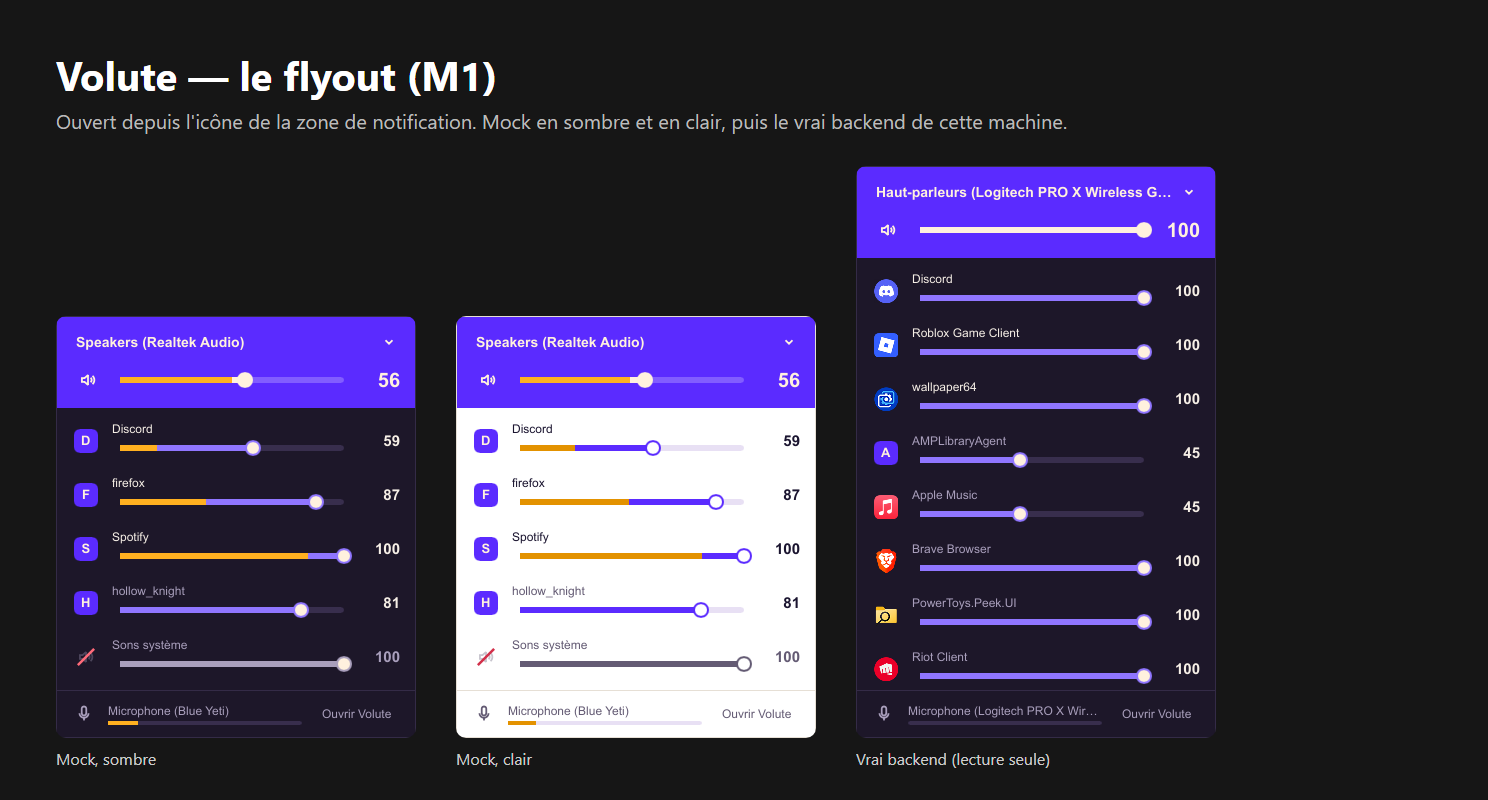
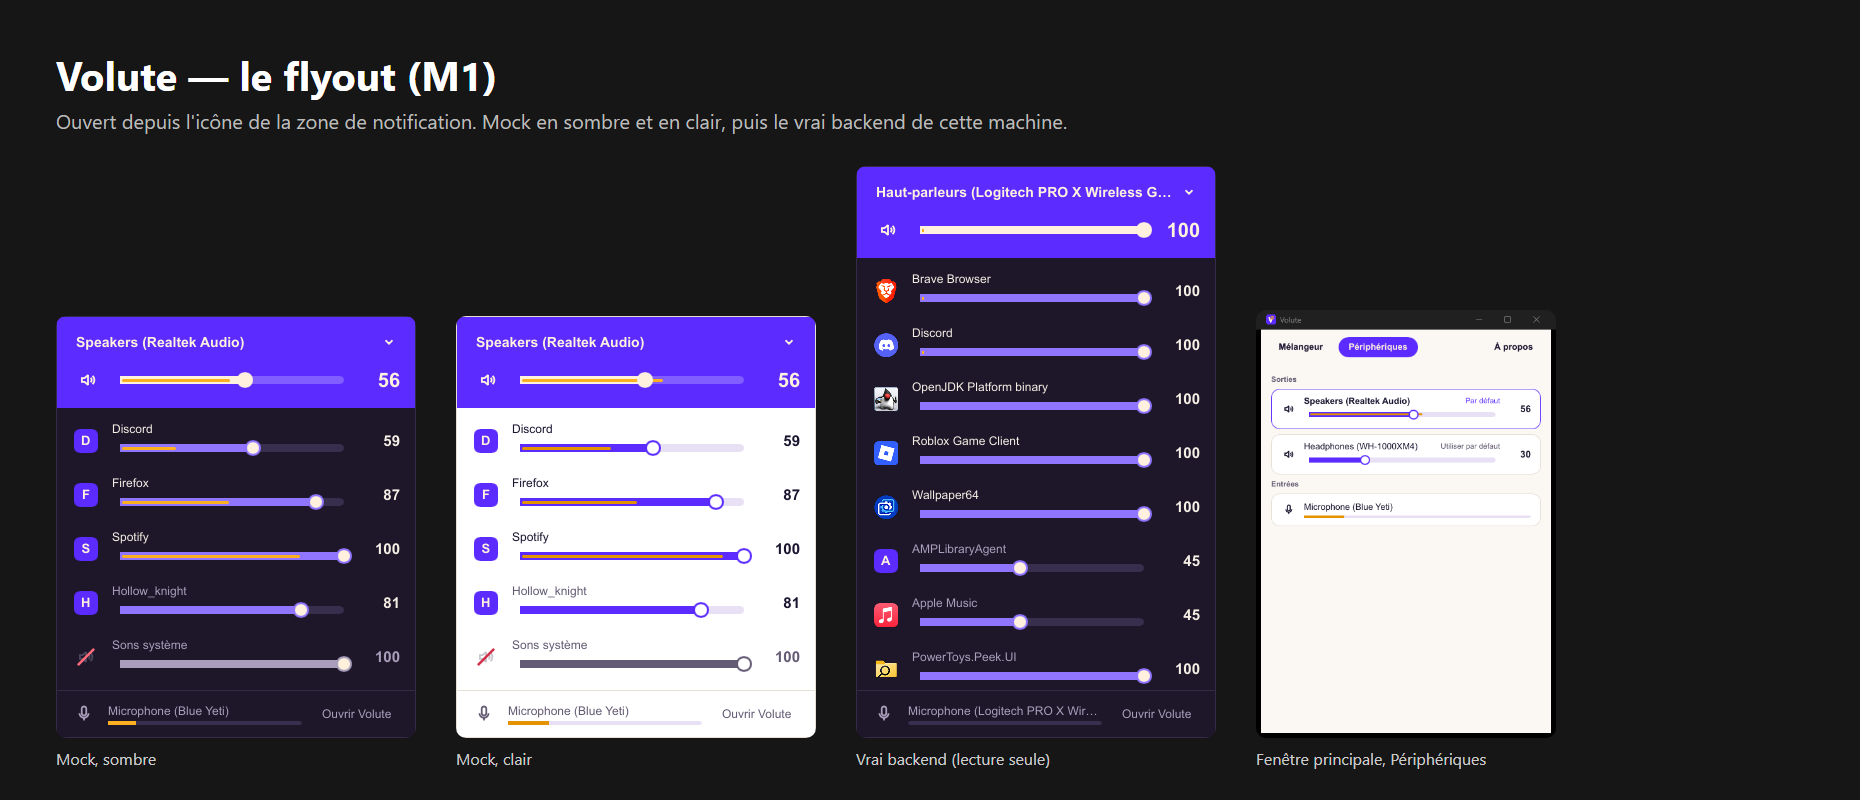
feat(app): the level runs as a thin line through the fader, the main window opens at its size, file names start with a capital, --tab=devices; xtask bench-overhead --real; M1 UX audit and budget

Changed region(s): [[0.0309, 0.0625, 0.8347, 0.9688], [0.0309, 0.9375, 0.0927, 0.9688]]

diff --git a/docs/ux/m1/board.html b/docs/ux/m1/board.html
@@ -1,5 +1,5 @@
 <!doctype html><html><head><meta charset="utf-8"><style>
-body{margin:0;background:#161616;color:#fff;font-family:"Segoe UI",Arial,sans-serif;padding:48px 56px;width:1488px;box-sizing:border-box}
+body{margin:0;background:#161616;color:#fff;font-family:"Segoe UI",Arial,sans-serif;padding:48px 56px;width:1860px;box-sizing:border-box}
 h1{font-size:40px;margin:0 0 6px}p{color:#bbb;font-size:20px;margin:0 0 32px}
 .row{display:flex;gap:40px;align-items:flex-end}.c{display:flex;flex-direction:column;gap:10px;font-size:16px;color:#ccc}
 img{border-radius:10px;display:block}
@@ -10,4 +10,5 @@ img{border-radius:10px;display:block}
 <div class="c"><img src="flyout-mock-dark.png">Mock, sombre</div>
 <div class="c"><img src="flyout-mock-light.png">Mock, clair</div>
 <div class="c"><img src="flyout-real-dark.png">Vrai backend (lecture seule)</div>
+<div class="c"><img src="devices-mock-light.png" width="300">Fenêtre principale, Périphériques</div>
 </div></body></html>

diff --git a/xtask/src/main.rs b/xtask/src/main.rs
@@ -8,7 +8,7 @@ use std::time::{Duration, Instant};
 use anyhow::{Context, Result, bail};
 
 const USAGE: &str = "usage: cargo xtask check
-       cargo xtask bench-overhead [--seconds=N] [--check]";
+       cargo xtask bench-overhead [--seconds=N] [--check] [--real]";
 const WARM_UP: Duration = Duration::from_secs(5);
 
 /// The performance budget from docs/ARCHITECTURE.md, per state: CPU of one core, private MB.
@@ -24,9 +24,14 @@ fn main() -> Result<()> {
         Some("bench-overhead") => {
             let mut seconds = 60;
             let mut check = false;
+            let mut real = false;
             for arg in args {
                 if arg == "--check" {
                     check = true;
+                    continue;
+                }
+                if arg == "--real" {
+                    real = true;
                     continue;
                 }
                 match arg.strip_prefix("--seconds=").map(str::parse) {
@@ -34,7 +39,7 @@ fn main() -> Result<()> {
                     _ => bail!("invalid argument `{arg}`\n{USAGE}"),
                 }
             }
-            bench_overhead(Duration::from_secs(seconds), check)
+            bench_overhead(Duration::from_secs(seconds), check, real)
         }
         _ => bail!("{USAGE}"),
     }
@@ -72,10 +77,11 @@ fn check() -> Result<()> {
     Ok(())
 }
 
-/// Builds Volute in release, then runs it on the mock twice: window open with meters running,
-/// then idle in the tray with nothing shown. Prints CPU of one core and peak private memory.
-/// With `check`, fails when a state is over budget.
-fn bench_overhead(duration: Duration, check: bool) -> Result<()> {
+/// Builds Volute in release, then runs it twice: window open with meters running, then idle in
+/// the tray with nothing shown. Prints CPU of one core and peak private memory. With `check`,
+/// fails when a state is over budget. On the mock, unless `real`: then on this machine's Core
+/// Audio, read only (no settings file, so no remembered volume is ever applied).
+fn bench_overhead(duration: Duration, check: bool, real: bool) -> Result<()> {
     let root = workspace_root();
     let cargo = std::env::var("CARGO").unwrap_or_else(|_| "cargo".into());
     let status = Command::new(cargo)
@@ -90,12 +96,13 @@ fn bench_overhead(duration: Duration, check: bool) -> Result<()> {
         .join("target/release/volute")
         .with_extension(std::env::consts::EXE_EXTENSION);
 
-    // The mock and no settings file: a benchmark touches no real audio and neither reads nor
-    // changes the user's setup, and runs next to the user's own Volute.
+    // No settings file: a benchmark neither reads nor changes the user's setup, applies no
+    // remembered volume, and runs next to the user's own Volute. The mock by default.
+    let source: &[&str] = if real { &[] } else { &["--mock"] };
     let states = [
         (
             "open",
-            &["--mock", "--no-settings", "--open", "--no-tray"][..],
+            &["--no-settings", "--open", "--no-tray"][..],
             Budget {
                 cpu_percent: 4.0,
                 private_mb: 40.0,
@@ -103,7 +110,7 @@ fn bench_overhead(duration: Duration, check: bool) -> Result<()> {
         ),
         (
             "idle",
-            &["--mock", "--no-settings"][..],
+            &["--no-settings"][..],
             Budget {
                 cpu_percent: 0.1,
                 private_mb: 25.0,
@@ -112,9 +119,11 @@ fn bench_overhead(duration: Duration, check: bool) -> Result<()> {
     ];
     let mut over = Vec::new();
     println!();
-    println!("volute overhead on the mock, {} s per state", duration.as_secs());
+    let on = if real { "this machine's Core Audio, read only" } else { "the mock" };
+    println!("volute overhead on {on}, {} s per state", duration.as_secs());
     for (name, args, budget) in states {
         let mut child = Command::new(&exe)
+            .args(source)
             .args(args)
             .spawn()
             .with_context(|| format!("starting {}", exe.display()))?;

diff --git a/crates/volute-app/src/mixer.rs b/crates/volute-app/src/mixer.rs
@@ -791,7 +791,7 @@ mod tests {
         let shown = &frames[1..];
         let rows = shown[0].rows.as_ref().expect("the first shown frame has the rows");
         let names: Vec<&str> = rows.iter().map(|r| r.name.as_str()).collect();
-        assert_eq!(names, ["Discord", "firefox", "Spotify", "hollow_knight", ""]);
+        assert_eq!(names, ["Discord", "Firefox", "Spotify", "Hollow_knight", ""]);
         assert!(rows[4].system);
         assert!(shown[0].devices.as_ref().is_some_and(|d| d.len() == 3));
         assert!(shown[1..].iter().all(|f| f.rows.is_none() && f.devices.is_none()), "only changes");
@@ -813,12 +813,12 @@ mod tests {
         wait();
         assert_eq!(control.calls().sessions, 2, "one read for the new session");
         let rows = run.last_rows().unwrap();
-        assert!(rows.iter().any(|r| r.name == "vlc"), "the new app is listed");
+        assert!(rows.iter().any(|r| r.name == "Vlc"), "the new app is listed");
         let spotify = rows.iter().find(|r| r.name == "Spotify").unwrap();
         assert!(spotify.muted && (spotify.volume - curve::position_from_scalar(0.25)).abs() < 1e-4);
         control.set_session_state("vlc", SessionState::Expired);
         wait();
-        assert!(run.last_rows().unwrap().iter().all(|r| r.name != "vlc"), "ended: gone");
+        assert!(run.last_rows().unwrap().iter().all(|r| r.name != "Vlc"), "ended: gone");
         run.stop();
     }
 
@@ -873,12 +873,12 @@ mod tests {
         run.send(Command::Visible(true));
         wait();
         let rows = run.last_rows().unwrap();
-        let vlc = rows.iter().find(|r| r.name == "vlc").unwrap();
+        let vlc = rows.iter().find(|r| r.name == "Vlc").unwrap();
         assert!((vlc.volume - 0.4).abs() < 1e-3, "remembered 40 %, got {}", vlc.volume);
         // Changed in Windows' mixer while it plays: Volute does not fight it.
         control.change_session("vlc", 0.9, false);
         wait();
-        let vlc = run.last_rows().unwrap().into_iter().find(|r| r.name == "vlc").unwrap();
+        let vlc = run.last_rows().unwrap().into_iter().find(|r| r.name == "Vlc").unwrap();
         assert!((vlc.volume - curve::position_from_scalar(0.9)).abs() < 1e-3);
         run.stop();
     }

diff --git a/crates/volute-app/src/cli.rs b/crates/volute-app/src/cli.rs
@@ -1,7 +1,7 @@
 //! Command-line flags. Test flags reach a state directly, for screenshots, benchmarks and tests.
 
 pub const USAGE: &str =
-    "usage: volute [--open] [--no-settings] [--no-tray] [--dark|--light] [--mock] [--flyout] [--about]";
+    "usage: volute [--open] [--no-settings] [--no-tray] [--dark|--light] [--mock] [--flyout] [--tab=mixer|devices] [--about]";
 
 #[derive(Clone, Debug, Default, PartialEq, Eq)]
 pub struct Options {
@@ -18,6 +18,8 @@ pub struct Options {
     pub mock: bool,
     /// Opens the flyout at start, at the bottom right (screenshots).
     pub flyout: bool,
+    /// The main window's view at start: 0 the mixer, 1 the devices.
+    pub tab: i32,
     /// Opens the About window at start (screenshots).
     pub about: bool,
 }
@@ -34,6 +36,8 @@ pub fn parse(args: impl Iterator<Item = String>) -> Result<Options, String> {
             "--mock" => options.mock = true,
             "--flyout" => options.flyout = true,
             "--about" => options.about = true,
+            "--tab=mixer" => options.tab = 0,
+            "--tab=devices" => options.tab = 1,
             _ => return Err(format!("unknown argument `{arg}`")),
         }
     }
@@ -60,11 +64,13 @@ mod tests {
                 dark: Some(false),
                 mock: true,
                 flyout: false,
+                tab: 0,
                 about: false,
             }
         );
         assert_eq!(parse_all(&[]).unwrap(), Options::default());
         assert_eq!(parse_all(&["--dark"]).unwrap().dark, Some(true));
+        assert_eq!(parse_all(&["--tab=devices"]).unwrap().tab, 1);
     }
 
     #[test]

diff --git a/crates/volute-core/src/apps.rs b/crates/volute-core/src/apps.rs
@@ -74,8 +74,17 @@ fn name_of(session: &Session) -> String {
         .exe
         .as_deref()
         .and_then(Path::file_stem)
-        .map(|s| s.to_string_lossy().into_owned())
+        .map(|s| capitalise(&s.to_string_lossy()))
         .unwrap_or_else(|| format!("PID {}", session.pid))
+}
+
+/// A file name shown as a name: its first letter in capitals ("firefox" → "Firefox").
+fn capitalise(name: &str) -> String {
+    let mut chars = name.chars();
+    match chars.next() {
+        Some(first) => first.to_uppercase().chain(chars).collect(),
+        None => String::new(),
+    }
 }
 
 /// Groups `sessions` into apps into `out`: expired sessions left out, playing apps first, then
@@ -151,7 +160,7 @@ mod tests {
         let c = session("3", 12, Some(r"C:\Spotify\Spotify.exe"), SessionState::Active);
         let mut apps = Vec::new();
         group(&[a, b, c], &mut apps);
-        assert_eq!(names(&apps), ["firefox", "Spotify"]);
+        assert_eq!(names(&apps), ["Firefox", "Spotify"]);
         let firefox = &apps[0];
         assert_eq!(firefox.sessions.len(), 2, "both processes in one row, whatever the case");
         assert_eq!(firefox.volume, 0.6, "the loudest session");
@@ -173,7 +182,7 @@ mod tests {
         ];
         let mut apps = Vec::new();
         group(&sessions, &mut apps);
-        assert_eq!(names(&apps), ["b", "Apple", "zoom", ""]);
+        assert_eq!(names(&apps), ["B", "Apple", "Zoom", ""]);
         assert!(apps[3].system_sounds(), "system sounds keep their own row, last");
     }
 

diff --git a/crates/volute-app/src/ui.rs b/crates/volute-app/src/ui.rs
@@ -53,6 +53,7 @@ struct Ui {
     /// 0 follows the system, 1 dark, 2 light.
     scheme: i32,
     main_visible: bool,
+    main_shown_once: bool,
     main_occluded: bool,
     /// Wheel delta over the tray icon not yet worth a notch (precision touchpads).
     wheel: i32,
@@ -128,6 +129,7 @@ pub fn install(app: &AppWindow, commands: flume::Sender<Input>, scheme: i32, wit
             shown: Shown::default(),
             scheme,
             main_visible: false,
+            main_shown_once: false,
             main_occluded: false,
             wheel: 0,
             audio_visible: false,
@@ -288,15 +290,24 @@ fn update_visibility() {
     });
 }
 
+/// The main window's size the first time it opens, in logical pixels: Slint would otherwise
+/// open it at its minimum.
+const MAIN_SIZE: (f32, f32) = (460.0, 640.0);
+
 /// Shows the main window and brings it forward.
 pub fn show_main() {
     let app = with_ui(|ui| {
+        let first = !ui.main_shown_once;
+        ui.main_shown_once = true;
         ui.main_visible = true;
         ui.main_occluded = false;
-        ui.app.clone_strong()
+        (ui.app.clone_strong(), first)
     });
-    let Some(app) = app else { return };
+    let Some((app, first)) = app else { return };
     let _ = app.show();
+    if first {
+        app.window().set_size(slint::LogicalSize::new(MAIN_SIZE.0, MAIN_SIZE.1));
+    }
     app.window().with_winit_window(|w| {
         w.set_minimized(false);
         w.focus_window();

diff --git a/crates/volute-app/src/main.rs b/crates/volute-app/src/main.rs
@@ -84,6 +84,7 @@ fn main() -> anyhow::Result<()> {
     // The audio thread stops on Command::Quit; Core Audio's callbacks share its channel.
     let (inputs, receiver) = flume::unbounded::<Input>();
     ui::install(&app, inputs.clone(), scheme, !options.no_tray);
+    app.set_tab(options.tab);
 
     let make: MakeBackend = if options.mock {
         Box::new(|| Ok(Box::new(MockAudio::demo()) as Backend))

diff --git a/docs/ux/m1.md b/docs/ux/m1.md
@@ -1,0 +1,41 @@
+# UX audit — M1, the mixer
+
+Screens: [board.png](m1/board.png) (the flyout on the mock, dark and light, on this machine's real backend, read only, and the Devices view), [main-mock-dark.png](m1/main-mock-dark.png), [devices-mock-light.png](m1/devices-mock-light.png).
+
+## What works
+
+* **One look.** The master on the violet band at the top, then one line per app with its icon, name, fader and figure, then the microphone: the user's sketch, in the logo's colours.
+* **Real names and icons.** On the real backend, "Brave Browser", "Apple Music" and "Riot Client" show their own icons and the names their executables give, not file names.
+* **Sound you can see.** The live level runs inside each fader's track in amber, the one accent. The meters rise fast and fall slowly, and stay still on silence.
+* **Mute where the eye is.** A click on an app's icon mutes it: the icon fades and is struck through in red, the only red on screen. The master and the microphone have their own buttons.
+* **Calm when nothing plays.** Apps that stopped playing go a minute later; system sounds stay, at the bottom.
+* **The tray icon tells.** It turns to its muted form when the master is muted, its tooltip gives the device and the volume, and the wheel over it moves the master.
+
+## Findings
+
+| # | Finding | Severity | Plan |
+|---|---|---|---|
+| 1 | A loud level covered the fader's fill: at full level the value was read only from the thumb. | Medium | Fixed: the level is a thinner line through the middle of the track; the value stays readable around it. |
+| 2 | Long device names are cut ("Haut-parleurs (Logitech PRO X Wireless G…"). | Low | The full name in a tooltip (Volute's own tooltip, design track). |
+| 3 | Apps without a readable name showed their file name in lower case ("hollow_knight"). | Low | Fixed: the first letter is a capital ("Hollow_knight"). |
+| 4 | The main window opened at its minimum height. | Medium | Fixed: it opens at 460 × 640. |
+| 5 | Keyboard: faders take the arrow keys, Page Up/Down, Home/End and the wheel; the tab order through the flyout is not checked yet. | Medium | Check with the keyboard alone before M1 closes. |
+| 6 | Changing the default output is in the band (a click on the device's name). Nothing says the name is clickable but the chevron. | Low | Keep; watch whether it is found in a day of use. |
+
+## Not checked by hand
+
+These need a person at the machine, and are the user's to verify (M1's exit is a day of use):
+
+* dragging faders and muting real apps;
+* switching the default output (it changes the machine, so no test calls it);
+* the wheel over the tray icon, and the flyout closing when focus leaves;
+* the tray icon coming back after an Explorer restart.
+
+## Budget (`cargo xtask bench-overhead`, 60 s per state)
+
+| State | Mock | This machine's Core Audio, read only (`--real`) | Budget |
+|---|---|---|---|
+| Open, meters running | 3.2 % CPU, 4.5 MB private | 2.0 % CPU, 5.5 MB private | < 4 %, < 40 MB |
+| Idle in the tray | 0.000 % CPU, 3.4 MB private | 0.000 % CPU, 3.8 MB private | < 0.1 %, < 25 MB |
+
+Idle on the real backend includes Core Audio's events from the apps playing meanwhile: they wake the audio thread, which updates its model and sends nothing.

diff --git a/README.md b/README.md
@@ -4,7 +4,7 @@ A volume mixer for Windows that is fast, pleasant to look at, and does what the 
 
 Native Rust with [Slint](https://slint.dev). Light: it sits in the tray all day, so it must cost nothing.
 
-> **Status:** M0 (skeleton) in progress. See [docs/ROADMAP.md](docs/ROADMAP.md). Windows first; Linux (PipeWire) may follow; macOS has no per-app volume without a driver and is out of scope.
+> **Status:** M1 (the mixer) in progress. See [docs/ROADMAP.md](docs/ROADMAP.md). Windows first; Linux (PipeWire) may follow; macOS has no per-app volume without a driver and is out of scope.
 
 ## Why
 
@@ -21,6 +21,13 @@ Windows' mixer is buried in Settings, shows no levels, forgets apps, and its vol
   * the app's volume when an app is targeted.
 * **Devices:** switch the default output in one click, per-device volumes, mics with their input level.
 * **Remembers:** per-app volumes and mutes persist across restarts, and profiles hold a whole setup.
+
+## What Volute reads
+
+* **Sound:** the audio sessions and devices Windows reports, their volumes and live levels. Volute changes a volume only when you ask it to, or to give an app back the volume you set for it in Volute when it plays again.
+* **Apps:** each sound's executable path, to show its name and icon from the file itself. Volute opens no other process's memory.
+* **The mouse wheel over its tray icon, and nothing else** (decision 0007). While the pointer is over the icon, Volute reads raw mouse input to see the wheel; it reads only the wheel, only while the pointer stays there, and keeps nothing.
+* **Files:** `settings.ini` and `volumes.ini` (the volumes you set in Volute, per app) in `%APPDATA%\Volute`. Nothing else is written, and nothing leaves the machine.
 
 ## Documentation
 
